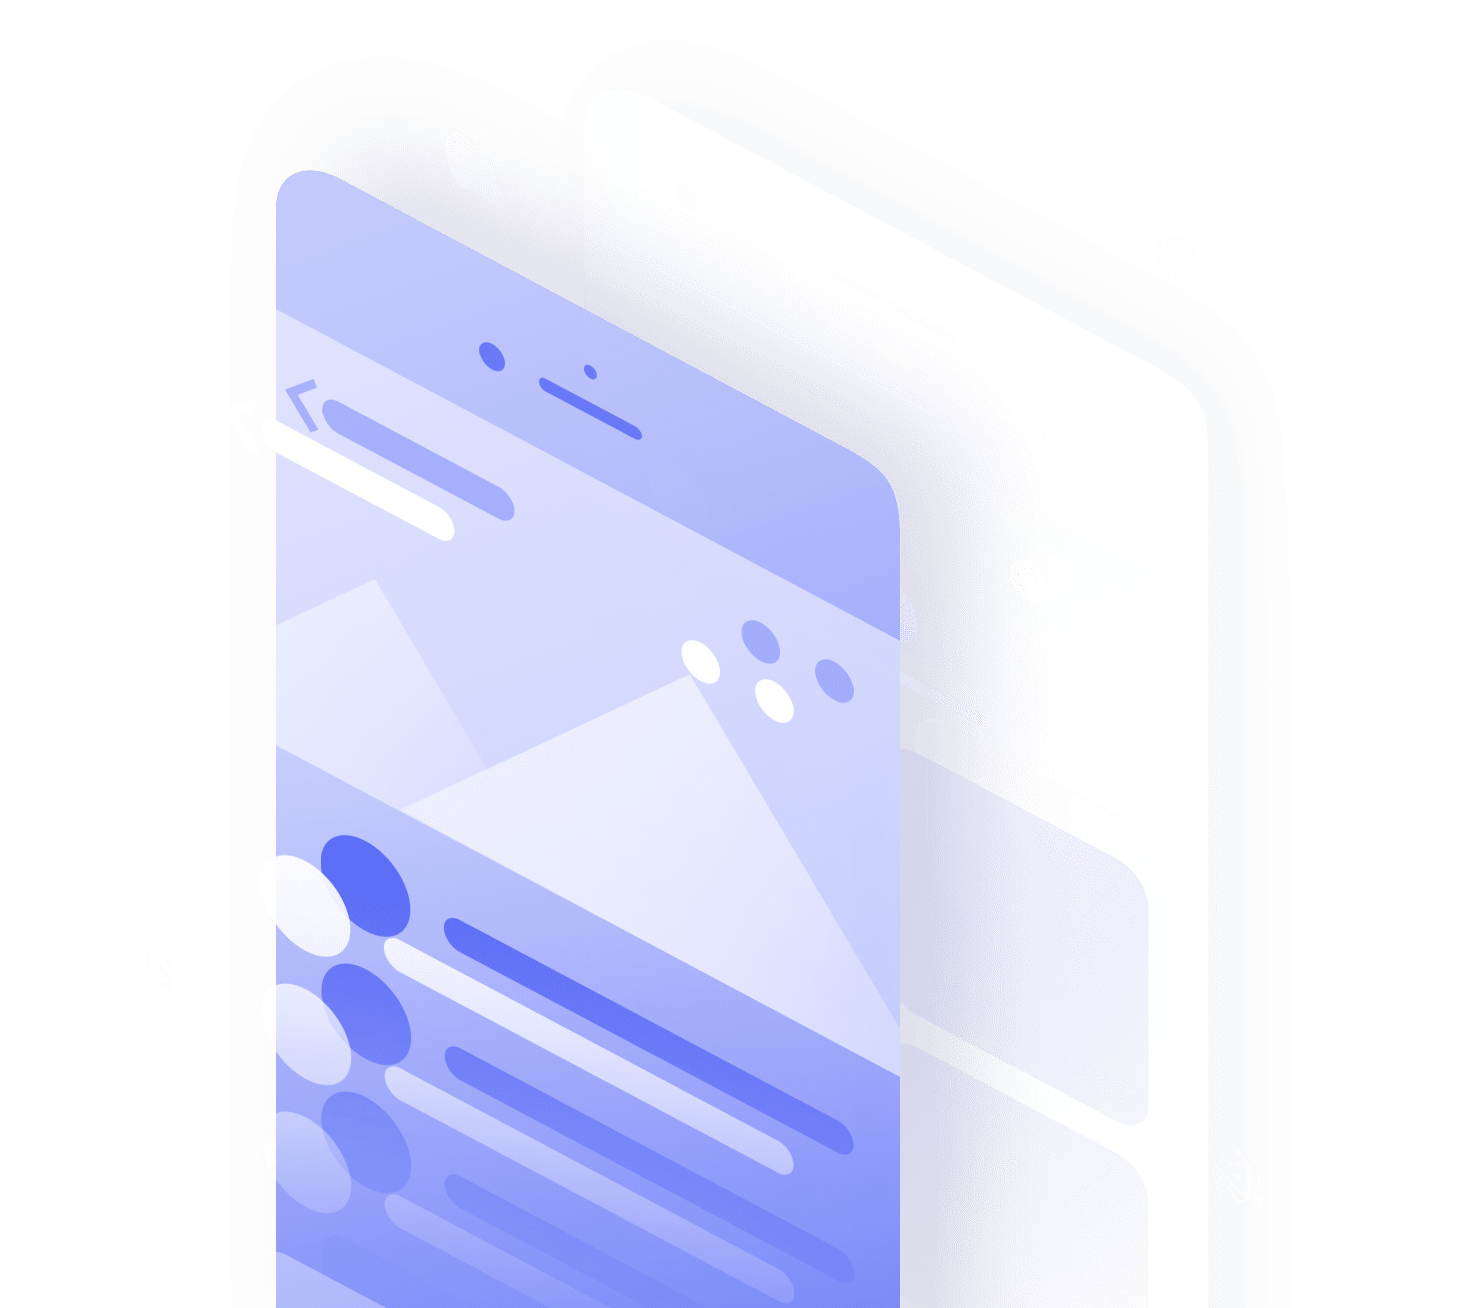
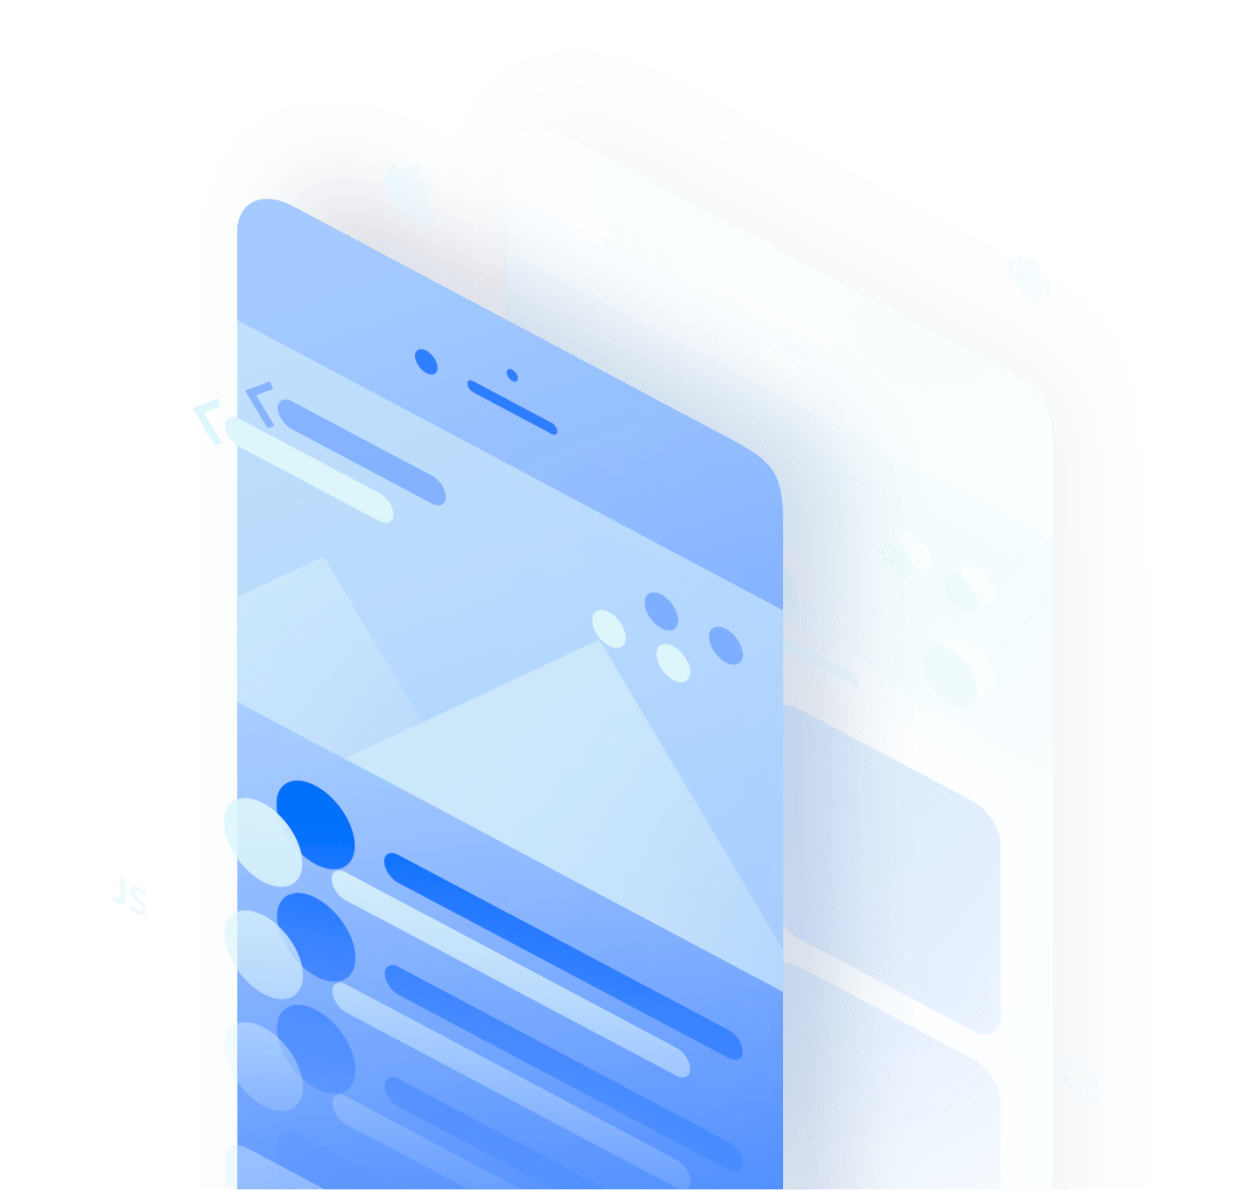
Homepage style tweaks

diff --git a/assets/scss/pages/home.scss b/assets/scss/pages/home.scss
@@ -342,8 +342,8 @@ ionic-slider {
     background-image:
       url('/img/homepage/bg-home-min.png'),
       linear-gradient( 90deg, rgb(56,128,255) 15%, rgb(103,167,255) 100%);
-    background-size: 737px, 100%;
-    background-position: right calc(50% - 300px) bottom -1px, center center;
+    background-size: 624px, 100%;
+    background-position: right calc(50% - 300px) bottom -30px, center center;
     background-repeat: no-repeat, repeat;
     margin-top: -80px;
     font-family: $font-family-eina;
@@ -589,6 +589,7 @@ ionic-slider {
       box-shadow: 0px 16px 24px rgba(0, 14, 41, 0.15), 0px 4px 8px rgba(0, 15, 43, 0.1);
       border-radius: 8px;
       display: flex;
+      flex-direction: row-reverse;
       overflow: hidden;
     }
 
